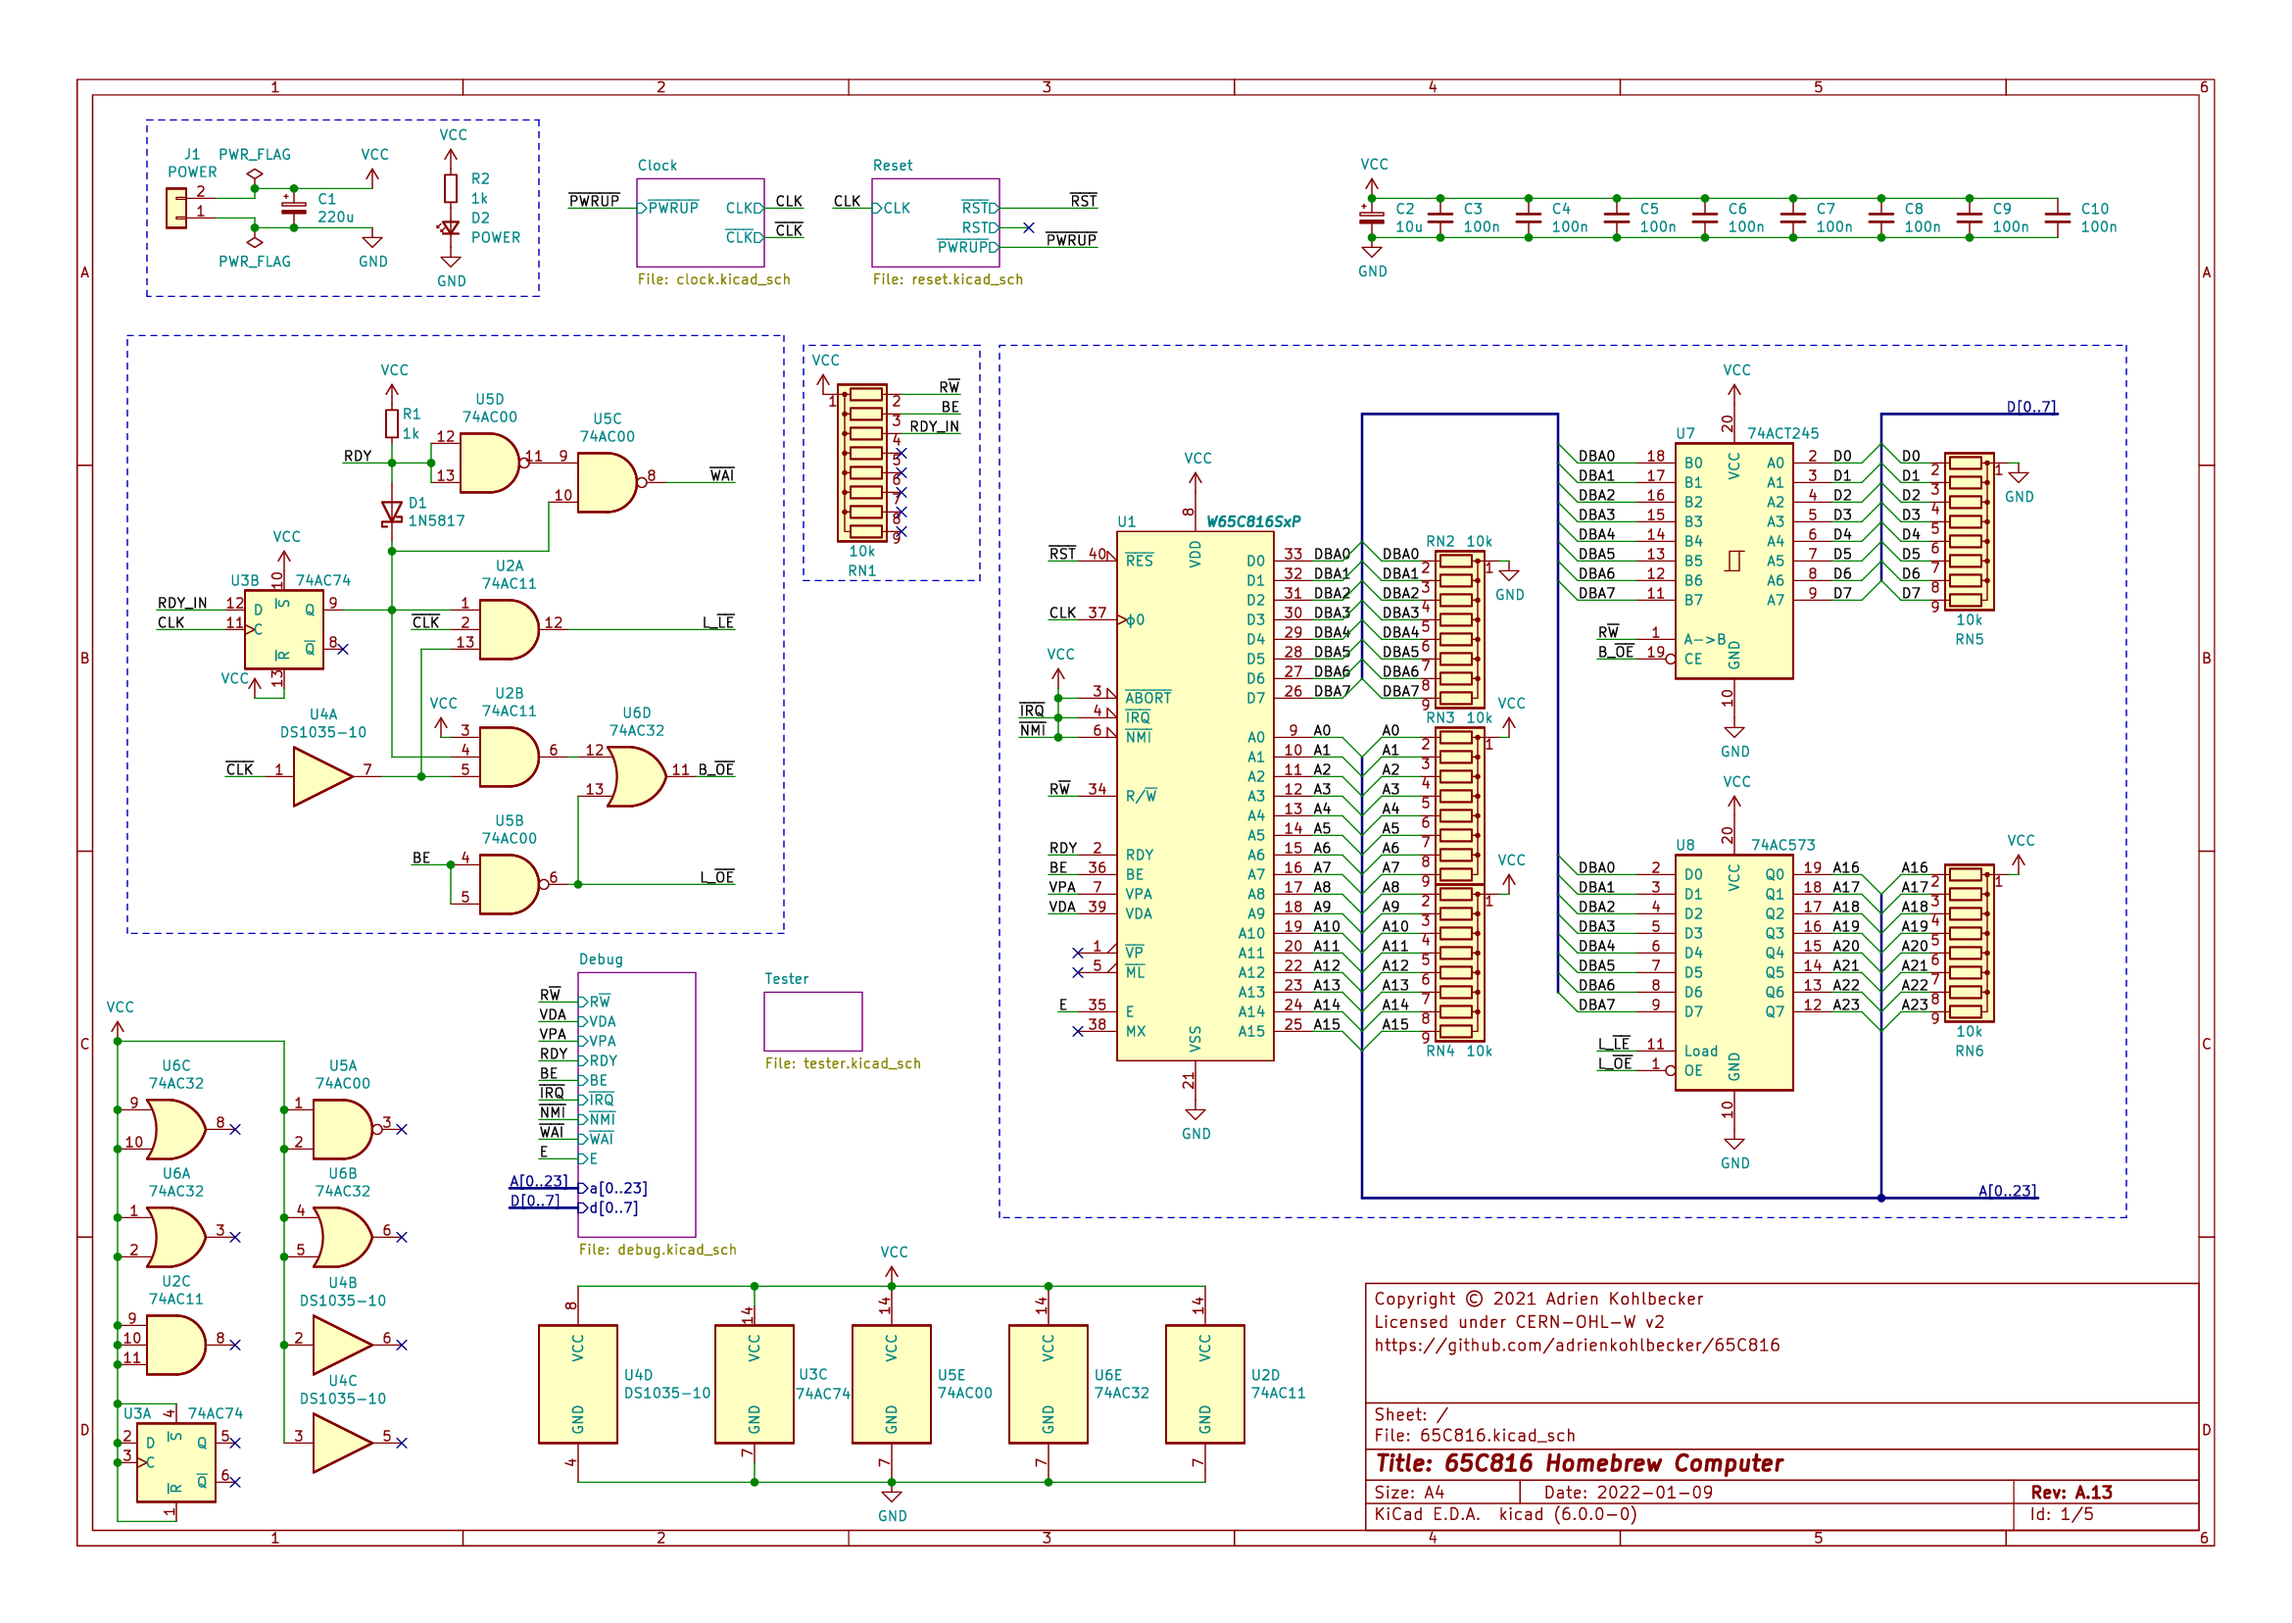
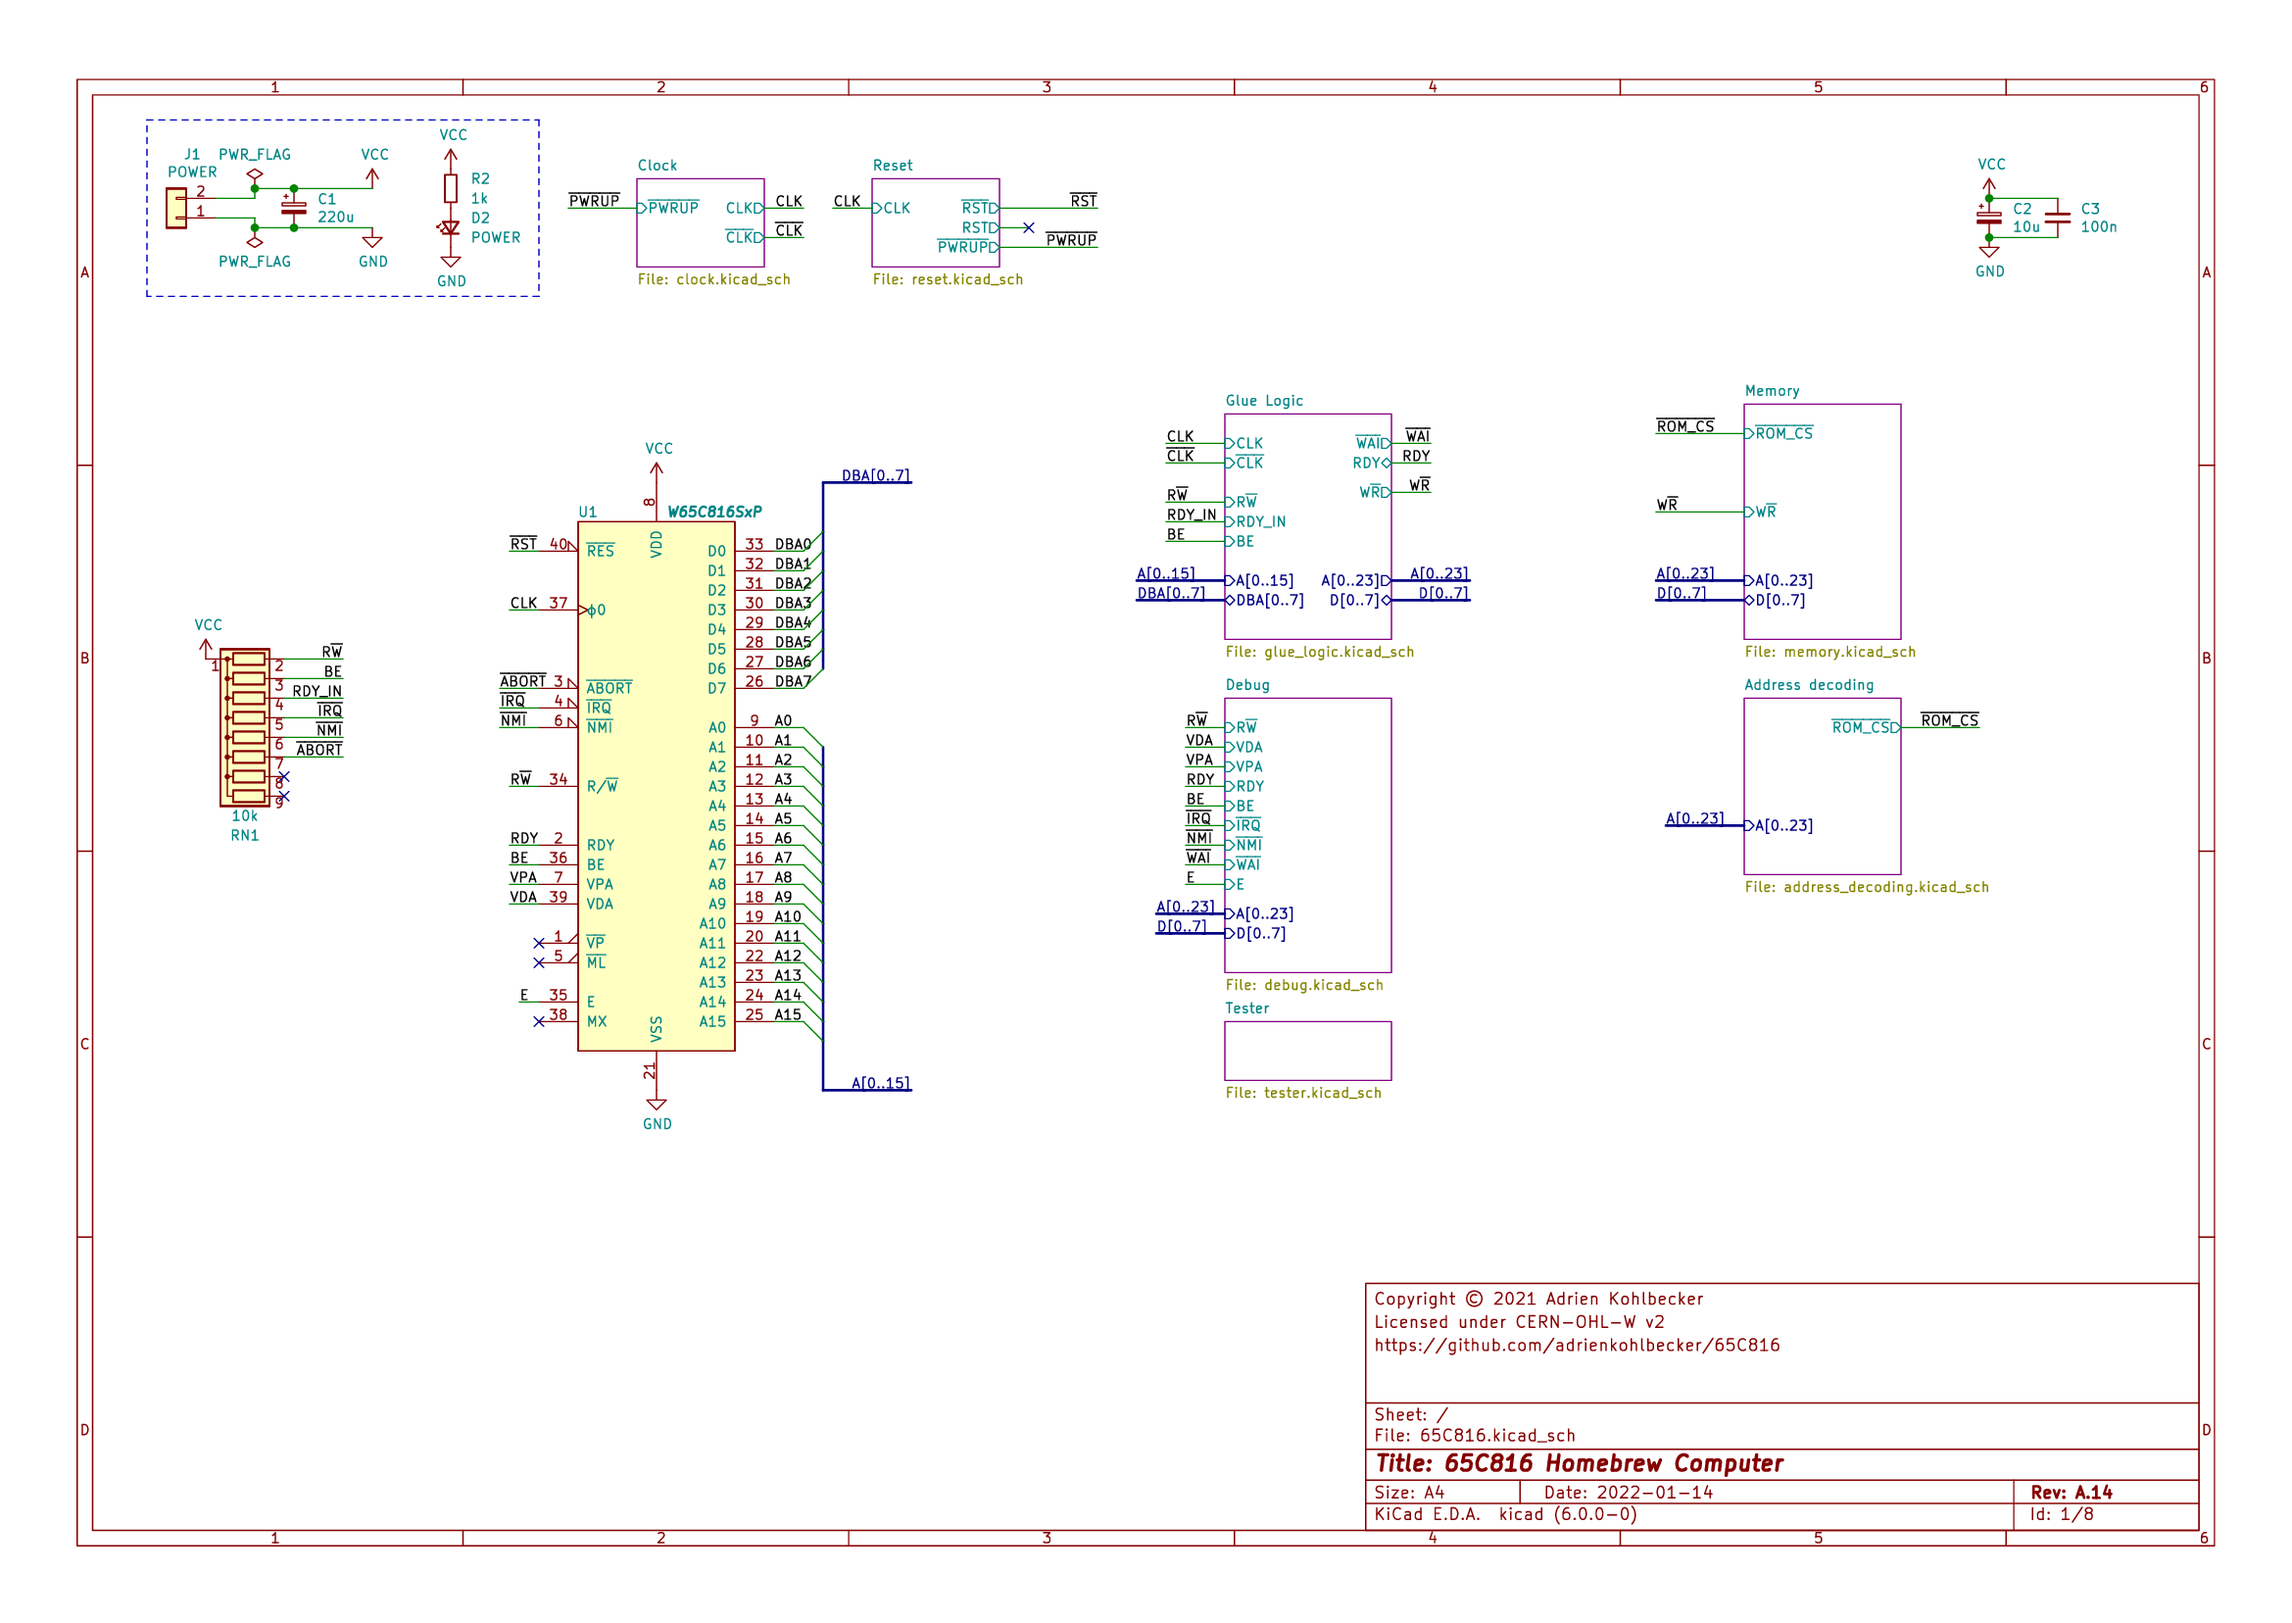
More updates for episode 14

diff --git a/thumbnails/thumbnail.py b/thumbnails/thumbnail.py
@@ -21,6 +21,7 @@ episodes = [
     'Clock module #3',
     'First run\nBus display',
     'Memory map\nAddress decoding',
+    'ROM',
 ]
 
 path = './thumbnails/'
@@ -28,7 +29,7 @@ pathfmt = path + '{:d}.{}'
 
 for num, episode in enumerate(episodes, start=0):
 
-    if num < 13:
+    if num < 14:
         continue
 
     with Image.open(pathfmt.format(num, 'png')) as im:

diff --git a/README.md b/README.md
@@ -55,7 +55,7 @@ The goals of the YouTube series are to provide a good description of all the des
 
 ### KiCad components
 
-**Component Count:** 119
+**Component Count:** 128
 
 | Refs | Qty | Component | Description |
 | ----- | --- | ---- | ----------- |
@@ -64,8 +64,8 @@ The goals of the YouTube series are to provide a good description of all the des
 | BAR5 | 1 | Green | BAR GRAPH 8 segment |
 | BAR6 | 1 | Red | BAR GRAPH 8 segment |
 | C1 | 1 | 220u | Polarized capacitor, small symbol |
-| C2, C16, C25, C31 | 4 | 10u | Polarized capacitor, small symbol |
-| C3, C4, C5, C6, C7, C8, C9, C10, C17, C18, C19, C20, C21, C22, C23, C24, C26, C27, C28, C29, C30, C32, C33, C34, C35, C36, C37 | 27 | 100n | Unpolarized capacitor, small symbol |
+| C2, C16, C25, C31, C38, C40, C42 | 7 | 10u | Polarized capacitor, small symbol |
+| C3, C4, C5, C6, C7, C8, C9, C10, C17, C18, C19, C20, C21, C22, C23, C24, C26, C27, C28, C29, C30, C32, C33, C34, C35, C36, C37, C39, C41 | 29 | 100n | Unpolarized capacitor, small symbol |
 | C11, C12, C13 | 3 | 2.2u | Polarized capacitor, small symbol |
 | C14 | 1 | 1u | Polarized capacitor, small symbol |
 | C15 | 1 | 10n | Unpolarized capacitor, small symbol |
@@ -76,9 +76,10 @@ The goals of the YouTube series are to provide a good description of all the des
 | D5 | 1 | Clock | Light emitting diode, small symbol |
 | D6 | 1 | EMU | Light emitting diode, small symbol |
 | J1 | 1 | POWER | Generic connector, single row, 01x02, script generated (kicad-library-utils/schlib/autogen/connector/) |
-| R1, R2, R10, R11, R12, R13, R22 | 6 | 1k | Resistor, small symbol |
+| J2 | 1 | Tester | Generic connector, single row, 01x08, script generated (kicad-library-utils/schlib/autogen/connector/) |
+| R1, R2, R10, R11, R12, R13, R22 | 7 | 1k | Resistor, small symbol |
 | R3, R5, R7 | 3 | 2.2k | Resistor, small symbol |
-| R4, R6, R8, R14, R15, R16, R17, R18, R19, R20, R21 | 11 | 10k | Resistor, small symbol |
+| R4, R6, R8, R14, R15, R16, R17, R18, R19, R20, R21, R23 | 12 | 10k | Resistor, small symbol |
 | R9 | 1 | 220 | Resistor, small symbol |
 | RN1, RN2, RN3, RN4, RN5, RN6, RN7 | 7 | 10k | 8 resistor network, star topology, bussed resistors, small symbol |
 | RN8, RN9 | 2 | 1.5k | 8 resistor network, star topology, bussed resistors, small symbol |
@@ -96,8 +97,8 @@ The goals of the YouTube series are to provide a good description of all the des
 | U2 | 1 | 74AC11 | Triple 3-input AND |
 | U3 | 1 | 74AC74 | Dual D Flip-flop, Set & Reset |
 | U4 | 1 | DS1035-10 | 3-in-1 High–Speed Silicon Delay Line |
-| U5 | 1 | 74AC00 | quad 2-input NAND gate |
-| U6 | 1 | 74AC32 | Quad 2-input OR |
+| U5 | 1 | 74AHC00 | quad 2-input NAND gate |
+| U6 | 1 | 74AHC32 | Quad 2-input OR |
 | U7 | 1 | 74ACT245 | Octal BUS Transceivers, 3-State outputs |
 | U8 | 1 | 74AC573 | 8-bit Latch 3-state outputs |
 | U9 | 1 | 74HC14 | Hex inverter schmitt trigger |
@@ -109,7 +110,9 @@ The goals of the YouTube series are to provide a good description of all the des
 | U18 | 1 | MAX705 | Low-Cost, μP Supervisory Circuit |
 | U19 | 1 | 74HC175 | 4-bit D Flip-Flop, reset |
 | U20 | 1 | 74HC04 | Hex Inverter |
-| U21, U22, U23, U24, U25 | 5 | 74HC245 | Octal BUS Transceivers, 3-State outputs |
+| U21, U22, U23, U24, U25 | 5 | 74HC541 | 8-bit Buffer/Line Driver 3-state outputs |
+| U26 | 1 | 28C256 | Paged Parallel EEPROM 256Kb (32K x 8), DIP-28/SOIC-28 |
+| U27 | 1 | 74HC10 | Triple 3-input NAND |
 | X1 | 1 | 20MHz | Crystal Clock Oscillator, DIP14-style metal package |
 
 ### Used in previous videos
